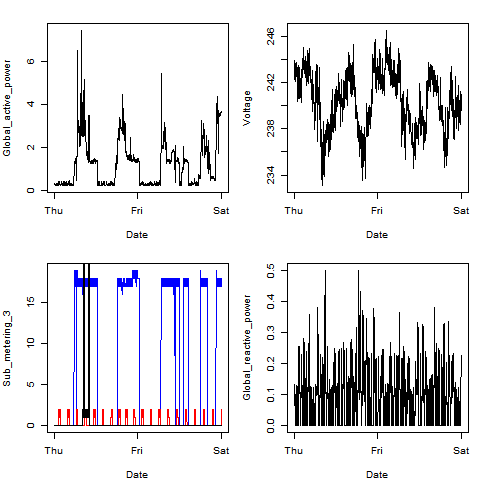
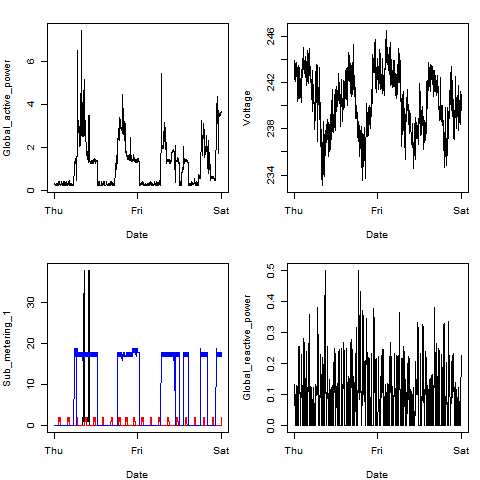
made plot3 actually work, made readme pertinent to this fork

diff --git a/README.md b/README.md
@@ -2,12 +2,23 @@
 
 This assignment uses data from
 the <a href="http://archive.ics.uci.edu/ml/">UC Irvine Machine
-Learning Repository</a>, a popular repository for machine learning
-datasets. In particular, we will be using the "Individual household
-electric power consumption Data Set" which I have made available on
-the course web site:
+Learning Repository</a>, titled "Individual household
+electric power consumption Data Set."
 
+The data used are from 2007-02-01 and 2007-02-02.
 
+## Method
+
+The purpose of the scripts in this repository is to examine how household energy usage varies over a 2-day period in February, 2007.
+
+The scripts for Plots 1-4 (labelled respectively) all download and read in the data and subset it in the same way. 
+
+Plot 1 is a histogram of global active power in kilowatts.
+Plot 2 is a continuous (by minute) plot of the global active power in kilowatts.
+Plot 3 is a continuous (by minute) plot of different appliance power draws in kilowatts.
+Plot 4 combines the first three plots, and plots Voltage continuously by minute. 
+
+Available here:
 * <b>Dataset</b>: <a href="https://d396qusza40orc.cloudfront.net/exdata%2Fdata%2Fhousehold_power_consumption.zip">Electric power consumption</a> [20Mb]
 
 * <b>Description</b>: Measurements of electric power consumption in
@@ -32,83 +43,3 @@ web site</a>:
 <li><b>Sub_metering_2</b>: energy sub-metering No. 2 (in watt-hour of active energy). It corresponds to the laundry room, containing a washing-machine, a tumble-drier, a refrigerator and a light. </li>
 <li><b>Sub_metering_3</b>: energy sub-metering No. 3 (in watt-hour of active energy). It corresponds to an electric water-heater and an air-conditioner.</li>
 </ol>
-
-## Loading the data
-
-
-
-
-
-When loading the dataset into R, please consider the following:
-
-* The dataset has 2,075,259 rows and 9 columns. First
-calculate a rough estimate of how much memory the dataset will require
-in memory before reading into R. Make sure your computer has enough
-memory (most modern computers should be fine).
-
-* We will only be using data from the dates 2007-02-01 and
-2007-02-02. One alternative is to read the data from just those dates
-rather than reading in the entire dataset and subsetting to those
-dates.
-
-* You may find it useful to convert the Date and Time variables to
-Date/Time classes in R using the `strptime()` and `as.Date()`
-functions.
-
-* Note that in this dataset missing values are coded as `?`.
-
-
-## Making Plots
-
-Our overall goal here is simply to examine how household energy usage
-varies over a 2-day period in February, 2007. Your task is to
-reconstruct the following plots below, all of which were constructed
-using the base plotting system.
-
-First you will need to fork and clone the following GitHub repository:
-[https://github.com/rdpeng/ExData_Plotting1](https://github.com/rdpeng/ExData_Plotting1)
-
-
-For each plot you should
-
-* Construct the plot and save it to a PNG file with a width of 480
-pixels and a height of 480 pixels.
-
-* Name each of the plot files as `plot1.png`, `plot2.png`, etc.
-
-* Create a separate R code file (`plot1.R`, `plot2.R`, etc.) that
-constructs the corresponding plot, i.e. code in `plot1.R` constructs
-the `plot1.png` plot. Your code file **should include code for reading
-the data** so that the plot can be fully reproduced. You should also
-include the code that creates the PNG file.
-
-* Add the PNG file and R code file to your git repository
-
-When you are finished with the assignment, push your git repository to
-GitHub so that the GitHub version of your repository is up to
-date. There should be four PNG files and four R code files.
-
-
-The four plots that you will need to construct are shown below. 
-
-
-### Plot 1
-
-
-![plot of chunk unnamed-chunk-2](figure/unnamed-chunk-2.png) 
-
-
-### Plot 2
-
-![plot of chunk unnamed-chunk-3](figure/unnamed-chunk-3.png) 
-
-
-### Plot 3
-
-![plot of chunk unnamed-chunk-4](figure/unnamed-chunk-4.png) 
-
-
-### Plot 4
-
-![plot of chunk unnamed-chunk-5](figure/unnamed-chunk-5.png) 
-
